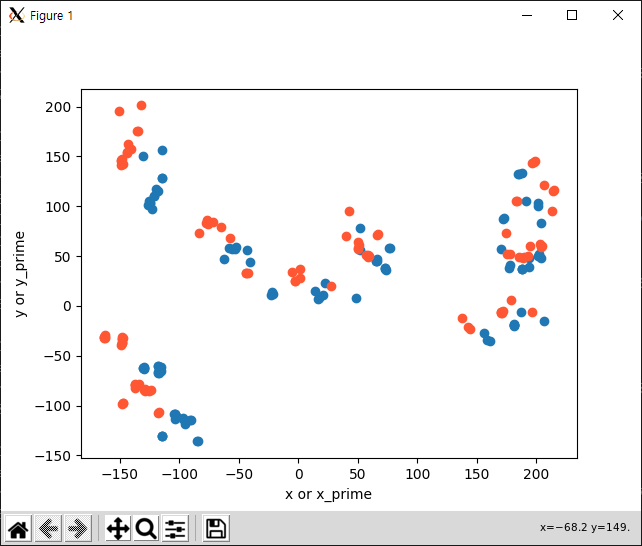
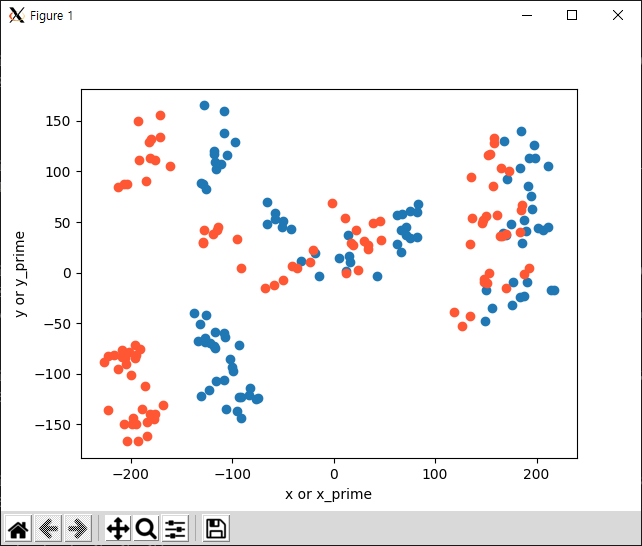
final

diff --git a/hw10/main.py b/hw10/main.py
@@ -2,6 +2,7 @@ import numpy as np
 import pandas as pd
 import matplotlib.pyplot as plt
 import random
+import copy
 
 
 def read_data():
@@ -132,47 +133,52 @@ def main():
     LMM(a, x, y, x_prime, y_prime)
 
     # random gaussian distribution
-    ran1_1 = random.gauss(0.0, 1)
-    ran1_2 = random.gauss(0.0, 1)
+    x_tem = copy.deepcopy(x)
+    y_tem = copy.deepcopy(y)
+    x_prime_tem = copy.deepcopy(x_prime)
+    y_prime_tem = copy.deepcopy(y_prime)
     a = [1, 0, -1, 1, 1, 0, 0, 0]
     print()
     print(a)
     for i in range(100):
-        x[i] += ran1_1
-        y[i] += ran1_1
-        x_prime[i] += ran1_2
-        y_prime[i] += ran1_2
+        x_tem[i] += random.gauss(0.0, 1)
+        y_tem[i] += random.gauss(0.0, 1)
+        x_prime_tem[i] += random.gauss(0.0, 1)
+        y_prime_tem[i] += random.gauss(0.0, 1)
     print("Result of noise (m = 0, SD = 1)")
-    LMM(a, x,y, x_prime, y_prime)
-
+    LMM(a, x_tem,y_tem, x_prime_tem, y_prime_tem)
 
     # random gaussian distribution
-    ran1_1 = random.gauss(0.0, 10)
-    ran1_2 = random.gauss(0.0, 10)
+    x_tem = copy.deepcopy(x)
+    y_tem = copy.deepcopy(y)
+    x_prime_tem = copy.deepcopy(x_prime)
+    y_prime_tem = copy.deepcopy(y_prime)
     a = [1, 0, -1, 1, 1, 0, 0, 0]
     print()
     print(a)
     for i in range(100):
-        x[i] += ran1_1
-        y[i] += ran1_1
-        x_prime[i] += ran1_2
-        y_prime[i] += ran1_2
+        x_tem[i] += random.gauss(0.0, 10)
+        y_tem[i] += random.gauss(0.0, 10)
+        x_prime_tem[i] += random.gauss(0.0, 10)
+        y_prime_tem[i] += random.gauss(0.0, 10)
     print("Result of noise (m = 0, SD = 10)")
-    LMM(a, x,y, x_prime, y_prime)
+    LMM(a, x_tem,y_tem, x_prime_tem, y_prime_tem)
 
    # random gaussian distribution
-    ran1_1 = random.gauss(0.0, 20)
-    ran1_2 = random.gauss(0.0, 20)
+    x_tem = copy.deepcopy(x)
+    y_tem = copy.deepcopy(y)
+    x_prime_tem = copy.deepcopy(x_prime)
+    y_prime_tem = copy.deepcopy(y_prime)
     a = [1, 0, -1, 1, 1, 0, 0, 0]
     print()
     print(a)
     for i in range(100):
-        x[i] += ran1_1
-        y[i] += ran1_1
-        x_prime[i] += ran1_2
-        y_prime[i] += ran1_2
+        x_tem[i] += random.gauss(0.0, 20)
+        y_tem[i] += random.gauss(0.0, 20)
+        x_prime_tem[i] += random.gauss(0.0, 20)
+        y_prime_tem[i] += random.gauss(0.0, 20)
     print("Result of noise (m = 0, SD = 20)")
-    LMM(a, x,y, x_prime, y_prime)
+    LMM(a, x_tem, y_tem, x_prime_tem, y_prime_tem)
 
 
 main()

diff --git a/hw10/Readme.md b/hw10/Readme.md
@@ -38,16 +38,39 @@
 
 ## 결과
 
-- initial state
-
-  ![](/result/initial__.png)
-
-- with no noise
-
-		![](/result/no noise__.PNG)
+- (x', y') 은 파란색으로 나타낸 점들이다.
+- (f(x, y), g(x, y))는 주황색 점들이다. 
+  - x' = f(x, y), y' = g(x, y) 
+- 초기값을 넣었을 때, 함수 결과는 유의미하지 않고, linear하다.
+- noise가 커질수록 좌우 transform의 형태가 무너지고 있음을 알 수 있다. 
 
 
 
-- with noise SD = 1
-- with noise SD = 10
-- with noise SD = 20
+### parameter 결과
+
+- 초기 parameter a[a11, a12, a13, a21, a22, a23, a31, a32] = [1, 0, -1, 1, 1, 0, 0, 0]으로 설정했다.
+- iteration 후 결과는 아래와 같다. 배열 순서는 위에 줄과 같다.
+
+![image-20211206144940580](C:\Users\YEO\AppData\Roaming\Typora\typora-user-images\image-20211206144940580.png)
+
+### initial state
+
+![](./result/initial__.png)
+
+
+
+### with no noise![](./result/no noise__.PNG)
+
+
+
+### with noise SD = 1
+
+![](./result/SD=1__.png)
+
+### with noise SD = 10
+
+![](./result/SD=10__.png)
+
+### with noise SD = 20
+
+![](./result/SD=20__.png)
